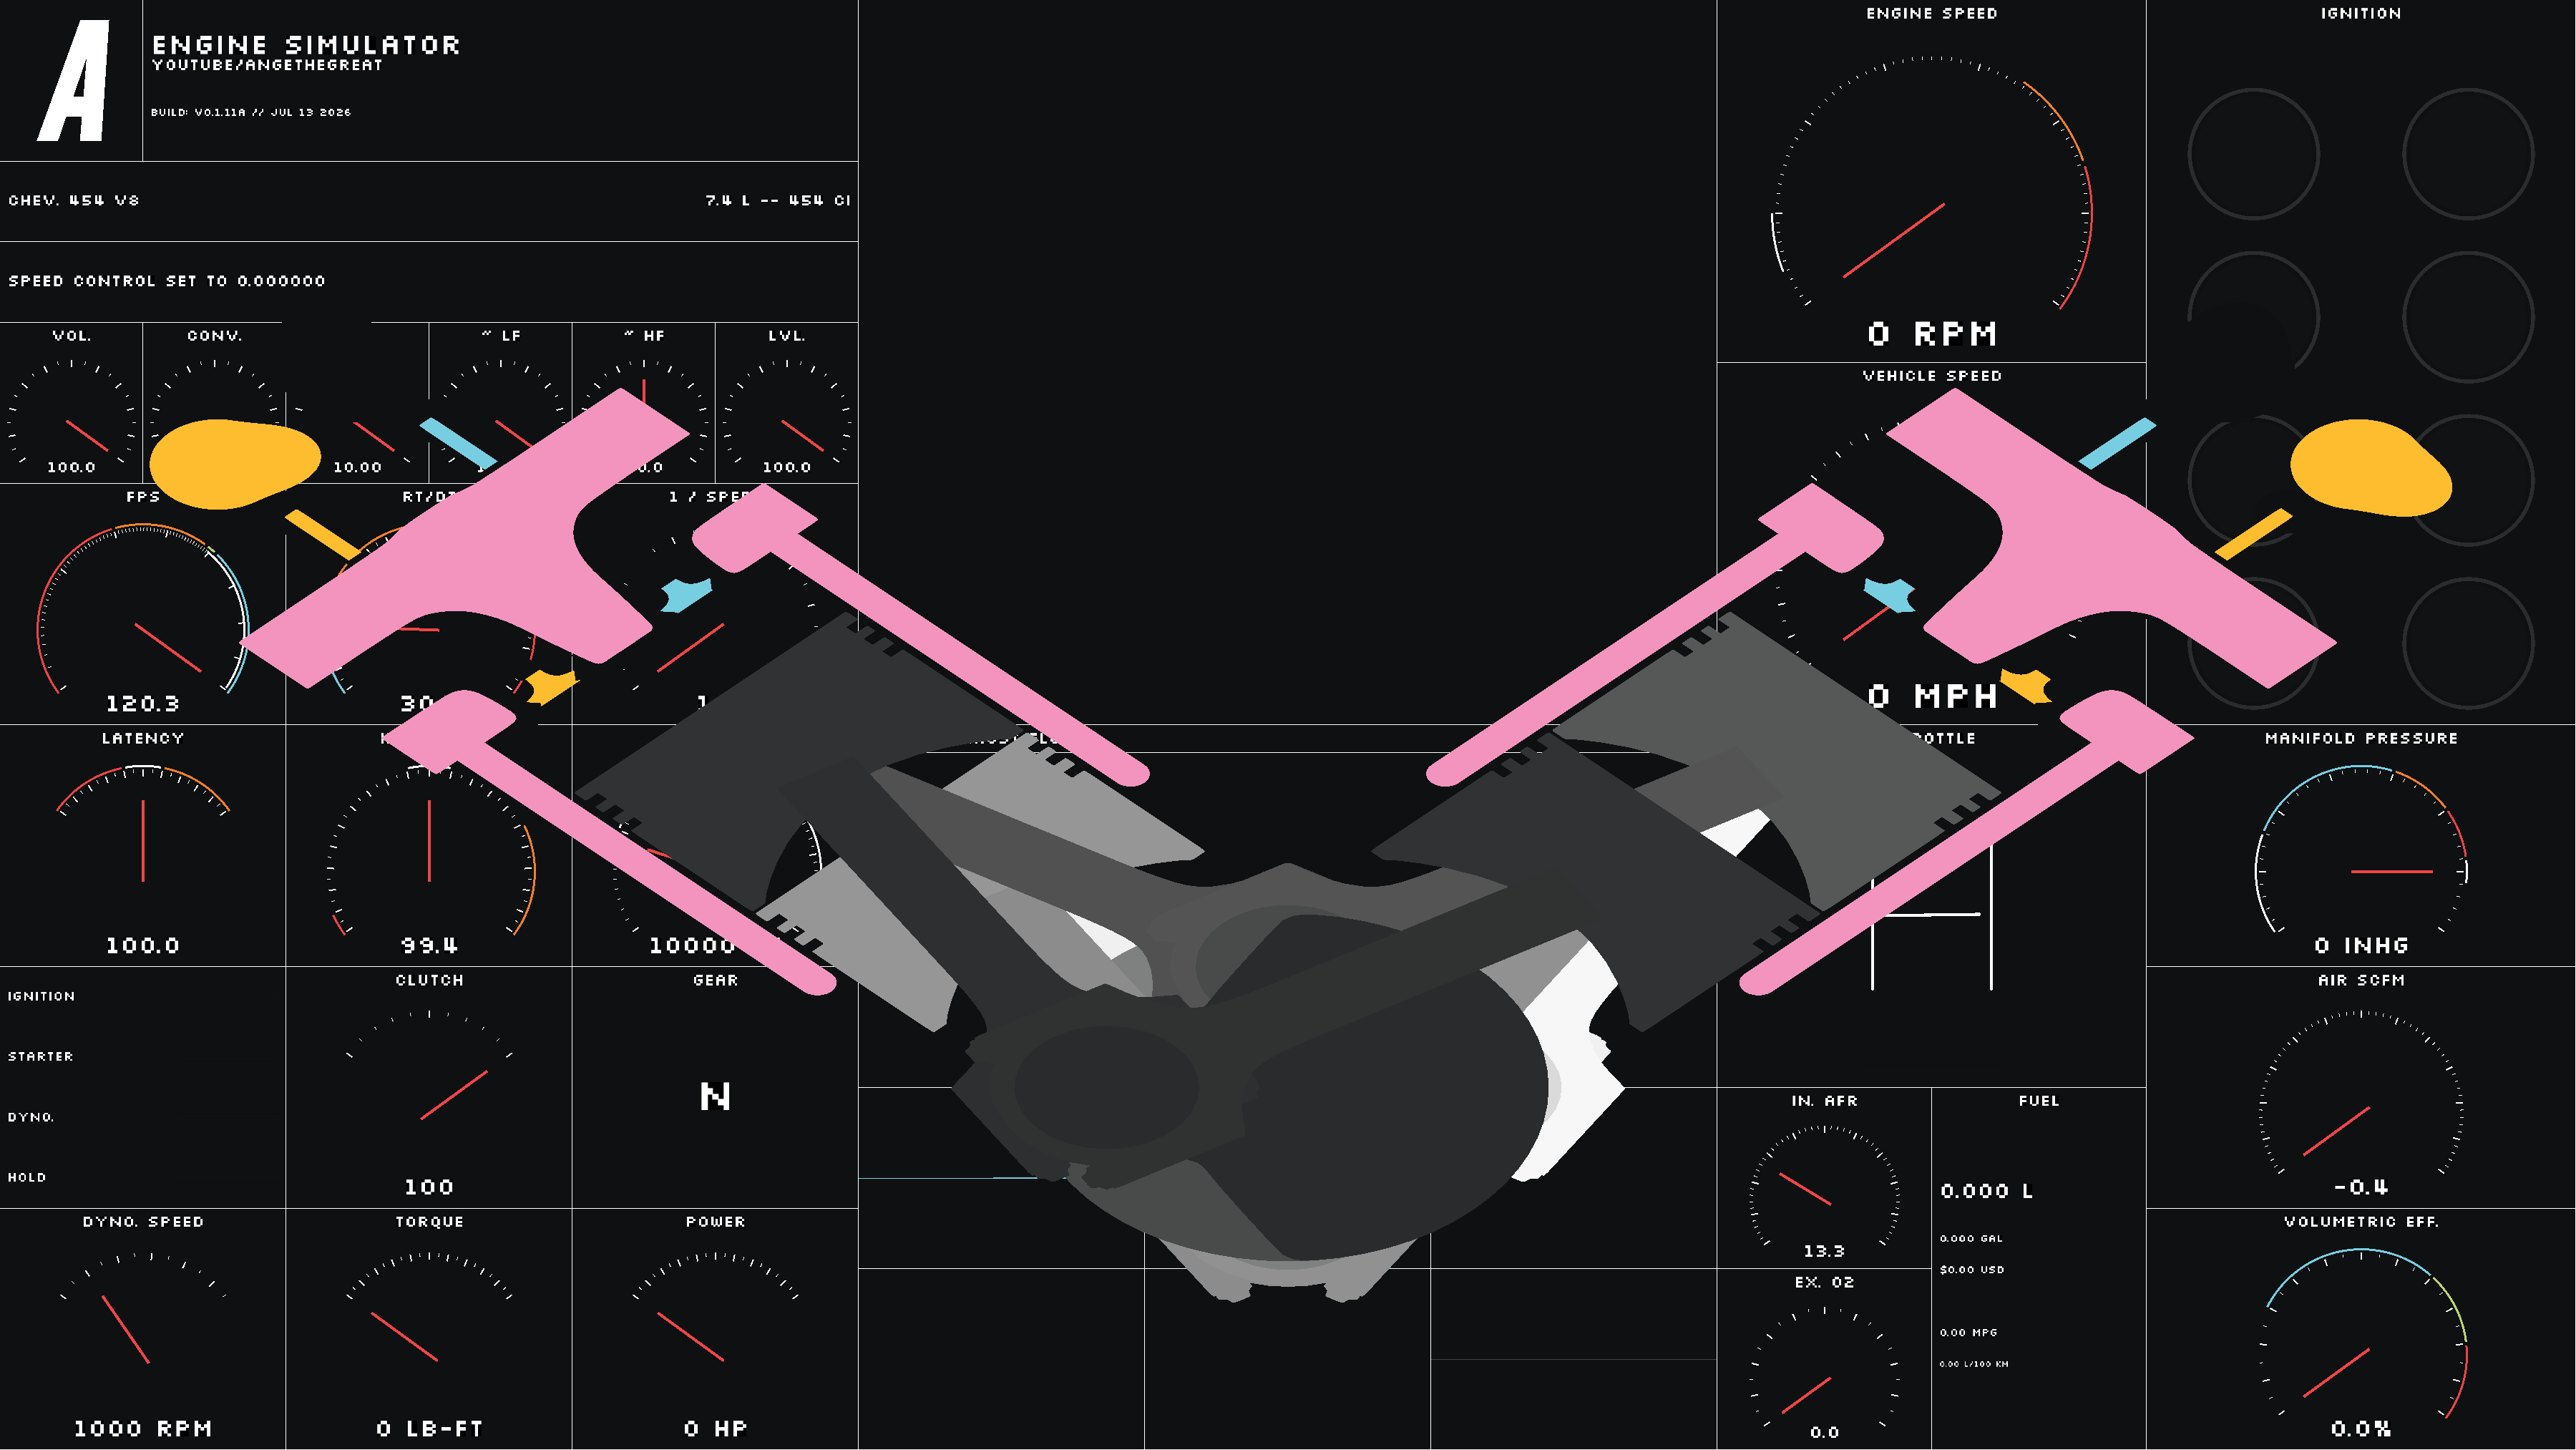
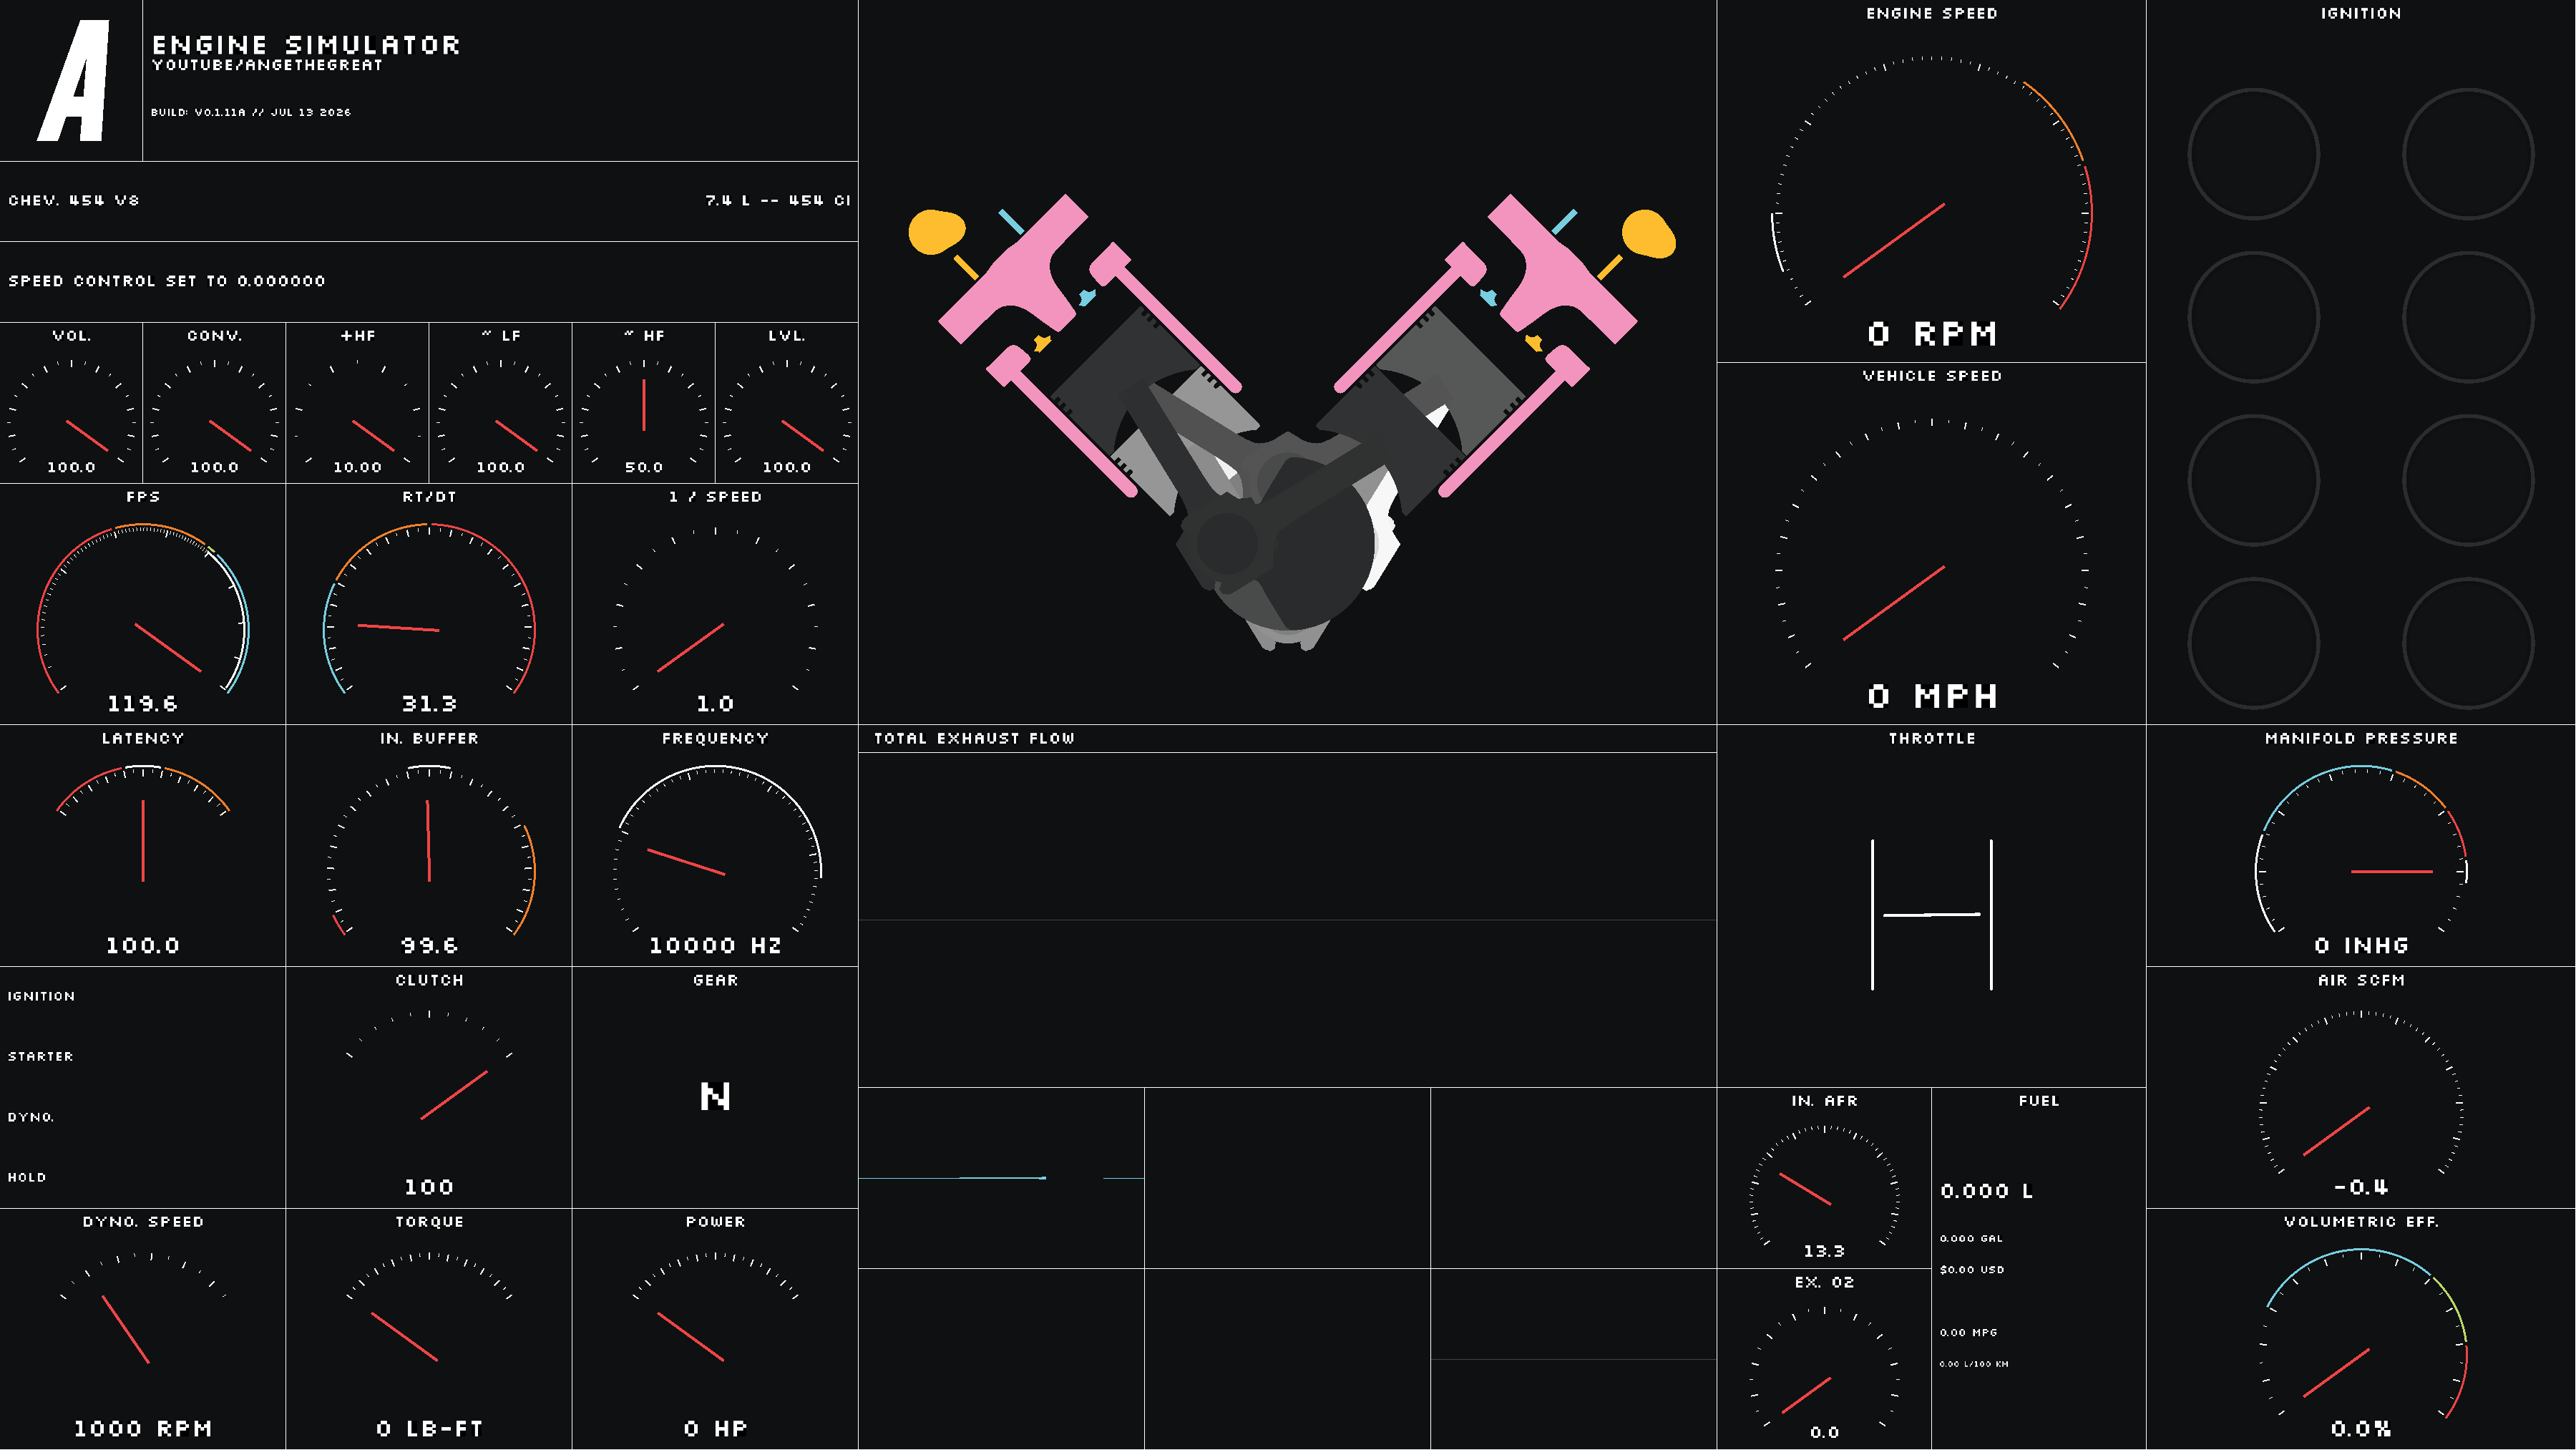
Fix scrambled engine view: implement sub-render-target viewport in Metal
The engine cross-section is rendered into a sub-render-target (m_mainRenderTarget)
that occupies a centre region of the screen, while the UI is drawn to the full
screen. In the Metal backend CreateSubRenderTarget, ResizeRenderTarget and
SetRenderTarget were all stubs, and SetRenderTarget's signature (one arg) didn't
even match the base (target, slot) the render loop calls — so no viewport was
ever set and the engine, projected for its sub-region, was drawn full-screen over
the gauges (the "valves/cam lobes look weird" bug).

- CreateSubRenderTarget: create a Subdivision target storing its region + parent.
- ResizeRenderTarget: delegate to the base so the region dimensions actually update
  (was a no-op, leaving the engine view at 0x0).
- SetRenderTarget(target, slot): set the Metal viewport + a clamped scissor rect to
  the target's region (full drawable for the on-screen/UI target, sub-region for the
  engine view). Metal shares DirectX's top-left origin and the app stores posY in
  top-left space, so no Y-flip is needed.

Verified by frame capture (docs/screenshot_current.png): the engine now renders as
a correctly-sized V8 confined to its centre region, with all gauges clean.

diff --git a/dependencies/submodules/delta-studio/src/yds_metal_device.cpp b/dependencies/submodules/delta-studio/src/yds_metal_device.cpp
@@ -163,19 +163,95 @@ ysError ysMetalDevice::CreateOffScreenRenderTarget(ysRenderTarget **newTarget, i
 }
 
 ysError ysMetalDevice::CreateSubRenderTarget(ysRenderTarget **newTarget, ysRenderTarget *parent, int x, int y, int width, int height) {
-    return ysError();
+    YDS_ERROR_DECLARE("CreateSubRenderTarget");
+
+    if (newTarget == nullptr) return YDS_ERROR_RETURN(ysError::InvalidParameter);
+    if (parent == nullptr) return YDS_ERROR_RETURN(ysError::InvalidParameter);
+    if (parent->GetType() == ysRenderTarget::Type::Subdivision) return YDS_ERROR_RETURN(ysError::InvalidParameter);
+
+    // A subdivision target is a viewport region into its parent (the on-screen drawable).
+    ysMetalRenderTarget *newRenderTarget = m_renderTargets.NewGeneric<ysMetalRenderTarget>();
+    newRenderTarget->m_type = ysRenderTarget::Type::Subdivision;
+    newRenderTarget->m_posX = x;
+    newRenderTarget->m_posY = y;
+    newRenderTarget->m_width = width;
+    newRenderTarget->m_height = height;
+    newRenderTarget->m_physicalWidth = width;
+    newRenderTarget->m_physicalHeight = height;
+    newRenderTarget->m_format = ysRenderTarget::Format::R8G8B8A8_UNORM;
+    newRenderTarget->m_hasDepthBuffer = parent->HasDepthBuffer();
+    newRenderTarget->m_associatedContext = parent->GetAssociatedContext();
+    newRenderTarget->m_parent = parent;
+
+    *newTarget = static_cast<ysRenderTarget *>(newRenderTarget);
+    return YDS_ERROR_RETURN(ysError::None);
 }
 
 ysError ysMetalDevice::ResizeRenderTarget(ysRenderTarget *target, int width, int height, int pwidth, int pheight) {
-    return ysError();
+    YDS_ERROR_DECLARE("ResizeRenderTarget");
+    // No GPU resource to rebuild for on-screen/subdivision targets — just update the
+    // stored dimensions (the base implementation), which drive the viewport in
+    // SetRenderTarget.
+    return ysDevice::ResizeRenderTarget(target, width, height, pwidth, pheight);
 }
 
 ysError ysMetalDevice::DestroyRenderTarget(ysRenderTarget *&target) {
     return ysError();
 }
 
-ysError ysMetalDevice::SetRenderTarget(ysRenderTarget *target) {
-    return ysError();
+ysError ysMetalDevice::SetRenderTarget(ysRenderTarget *target, int slot) {
+    YDS_ERROR_DECLARE("SetRenderTarget");
+
+    m_activeRenderTarget[slot] = target;
+    if (target == nullptr || pEnc == nullptr) return YDS_ERROR_RETURN(ysError::None);
+    if (slot != 0) return YDS_ERROR_RETURN(ysError::None);
+
+    // Map this target to a viewport into the current drawable. On-screen targets cover the
+    // whole drawable; subdivision targets (e.g. the engine view) cover their sub-region.
+    // Metal, like DirectX, uses a top-left origin, and the application has already stored
+    // posX/posY in top-left space, so no Y-flip is needed here.
+    const int drawableW = (m_drawable != nullptr) ? (int)m_drawable->texture()->width() : 0;
+    const int drawableH = (m_drawable != nullptr) ? (int)m_drawable->texture()->height() : 0;
+
+    int px = target->GetPosX();
+    int py = target->GetPosY();
+    int pw = target->GetPhysicalWidth();
+    int ph = target->GetPhysicalHeight();
+
+    // Before the target has been sized, or for the on-screen target, cover the drawable.
+    if (target->GetType() != ysRenderTarget::Type::Subdivision || pw <= 0 || ph <= 0) {
+        px = 0; py = 0;
+        pw = (drawableW > 0) ? drawableW : pw;
+        ph = (drawableH > 0) ? drawableH : ph;
+    }
+
+    MTL::Viewport viewport;
+    viewport.originX = (double)px;
+    viewport.originY = (double)py;
+    viewport.width = (double)pw;
+    viewport.height = (double)ph;
+    viewport.znear = 0.0;
+    viewport.zfar = 1.0;
+    pEnc->setViewport(viewport);
+
+    // Clamp a scissor rectangle to the drawable so rasterisation is confined to the region.
+    if (drawableW > 0 && drawableH > 0) {
+        int sx = px < 0 ? 0 : px;
+        int sy = py < 0 ? 0 : py;
+        int sw = pw, sh = ph;
+        if (sx + sw > drawableW) sw = drawableW - sx;
+        if (sy + sh > drawableH) sh = drawableH - sy;
+        if (sw > 0 && sh > 0) {
+            MTL::ScissorRect scissor;
+            scissor.x = (NS::UInteger)sx;
+            scissor.y = (NS::UInteger)sy;
+            scissor.width = (NS::UInteger)sw;
+            scissor.height = (NS::UInteger)sh;
+            pEnc->setScissorRect(scissor);
+        }
+    }
+
+    return YDS_ERROR_RETURN(ysError::None);
 }
 
 ysError ysMetalDevice::SetDepthTestEnabled(ysRenderTarget *target, bool enable) {

diff --git a/dependencies/submodules/delta-studio/include/yds_metal_device.h b/dependencies/submodules/delta-studio/include/yds_metal_device.h
@@ -37,7 +37,7 @@ public:
     virtual ysError CreateSubRenderTarget(ysRenderTarget **newTarget, ysRenderTarget *parent, int x, int y, int width, int height);
     virtual ysError ResizeRenderTarget(ysRenderTarget *target, int width, int height, int pwidth, int pheight);
     virtual ysError DestroyRenderTarget(ysRenderTarget *&target);
-    virtual ysError SetRenderTarget(ysRenderTarget *target);
+    virtual ysError SetRenderTarget(ysRenderTarget *target, int slot = 0);
     virtual ysError SetDepthTestEnabled(ysRenderTarget *target, bool enable);
     virtual ysError ReadRenderTarget(ysRenderTarget *src, uint8_t *target);
 